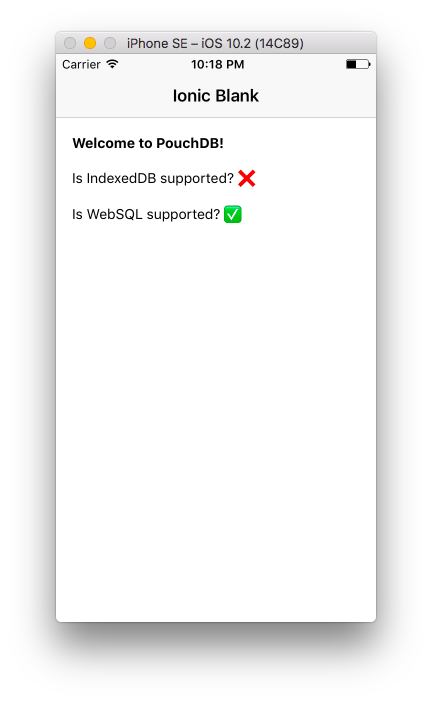
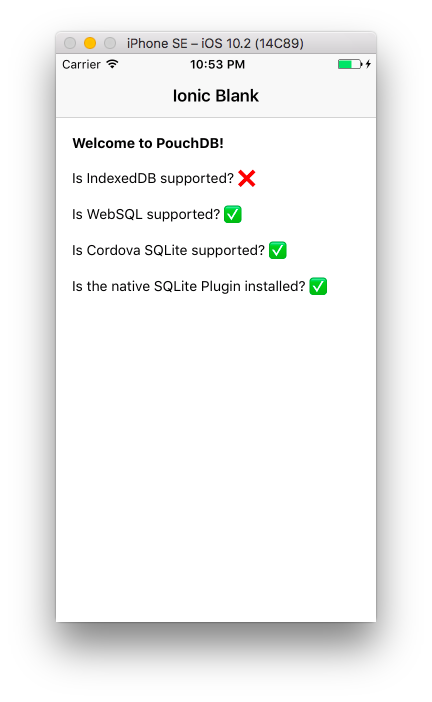
add native sqlite plugin support

Changed region(s): [[0.1505, 0.3291, 0.7824, 0.4188], [0.4514, 0.0897, 0.5718, 0.1197], [0.7824, 0.0598, 0.8426, 0.1197]]

diff --git a/src/pages/home/home.ts b/src/pages/home/home.ts
@@ -1,8 +1,10 @@
 import { Component } from '@angular/core';
-
+import { Platform } from 'ionic-angular';
 import { NavController } from 'ionic-angular';
 
 import * as PouchDB from 'pouchdb-browser';
+import * as cordovaSqlitePlugin from 'pouchdb-adapter-cordova-sqlite';
+PouchDB.plugin(cordovaSqlitePlugin);
 
 @Component({
   selector: 'page-home',
@@ -13,12 +15,14 @@ export class HomePage {
   pouchdbLoaded: boolean;
   idbSupported: boolean;
   websqlSupported: boolean;
+  cordovaSqliteSupported: boolean;
+  nativeSqlitePluginInstalled: boolean;
 
-  constructor(public navCtrl: NavController) {
+  constructor(public navCtrl: NavController, platform: Platform) {
     this.pouchdbLoaded = false;
-    this.idbSupported = false;
-    this.websqlSupported = false;
-    this.loadPouchDB();
+    platform.ready().then(() => {
+      this.loadPouchDB();
+    });
   }
 
   loadPouchDB() {
@@ -33,12 +37,16 @@ export class HomePage {
 
     var promises = [
       checkAdapterWorks('idb'),
-      checkAdapterWorks('websql')
+      checkAdapterWorks('websql'),
+      checkAdapterWorks('cordova-sqlite'),
+      Promise.resolve(!!window.sqlitePlugin)
     ];
 
     Promise.all(promises).then(function (results) {
       self.idbSupported = results[0];
       self.websqlSupported = results[1];
+      self.cordovaSqliteSupported = results[2];
+      self.nativeSqlitePluginInstalled = results[3];
       self.pouchdbLoaded = true;
     });
   }

diff --git a/src/pages/home/home.html b/src/pages/home/home.html
@@ -16,6 +16,9 @@
       Is WebSQL supported? {{ websqlSupported ? '✅' : '❌' }}
     </p>
     <p>
+      Is Cordova SQLite supported? {{ cordovaSqliteSupported ? '✅' : '❌' }}
     </p>
+    <p>
+      Is the native SQLite Plugin installed? {{ nativeSqlitePluginInstalled ? '✅' : '❌' }}
   </div>
 </ion-content>

diff --git a/src/declarations.d.ts b/src/declarations.d.ts
@@ -12,3 +12,7 @@
   https://www.typescriptlang.org/docs/handbook/declaration-files/introduction.html
 */
 declare module '*';
+
+interface Window {
+  sqlitePlugin: any;
+}

diff --git a/README.md b/README.md
@@ -1,7 +1,12 @@
-pouchdb-ionic-2-hello-world
+pouchdb-ionic-2-hello-world-with-sqlite
 =====================
 
-This is a "hello world" Ionic 2 app, using PouchDB.
+This is a "hello world" Ionic 2 app, using PouchDB. It's the same as
+[pouchdb-ionic-2-hello-world](https://github.com/nolanlawson/pouchdb-ionic-2-hello-world) except I added a native
+SQLite adapter.
+
+Many folks prefer to use a native SQLite adapter. I wrote about [some good reasons you might do this](https://nolanlawson.com/2016/04/10/introducing-the-cordova-sqlite-plugin-2/). In any case, here's what
+I did to enable this.
 
 The app was built with ionic CLI v2.2.1, using this command:
 
@@ -14,14 +19,31 @@ Then I installed PouchDB:
 (I used the `pouchdb-browser` package because we don't need Node/LevelDB dependencies to run in Ionic,
 so we can skip installing the Node dependencies. You could also use the `pouchdb` package.)
 
-Then I imported PouchDB in JavaScript:
+Then I installed `pouchdb-adapter-cordova-sqlite`:
+
+    npm install pouchdb-adapter-cordova-sqlite --save
+
+Then I added the native SQLite plugin (I'm using `cordova-plugin-sqlite-2`, but there are others):
+
+    cordova plugin add cordova-plugin-sqlite-2 --save
+
+Then I imported PouchDB in JavaScript, and registered the plugin:
 
 ```js
 import * as PouchDB from 'pouchdb-browser';
+import * as cordovaSqlitePlugin from 'pouchdb-adapter-cordova-sqlite';
+PouchDB.plugin(cordovaSqlitePlugin);
 ```
 
-Then I modified `home.ts` and `home.html` to show some PouchDB stats.
+Note that I did this within `platform.ready().then(/* ... */)`. If you skip this step, then `window.sqlitePlugin`
+won't be available yet, and so PouchDB won't actually use the native SQLite plugin.
 
-If you run this app using `ionic run ios`, you should see:
+If you run this app using `cordova prepare && ionic run ios`, you should see:
 
-<img src="screenshot.png" alt="screenshot">
+<img src="screenshot.png" alt="screenshot"/>
+
+Note that to create a new PouchDB database using the native SQLite adapter, you do:
+
+```js
+var db = new PouchDB('mydb.db', {adapter: 'cordova-sqlite'});
+```
